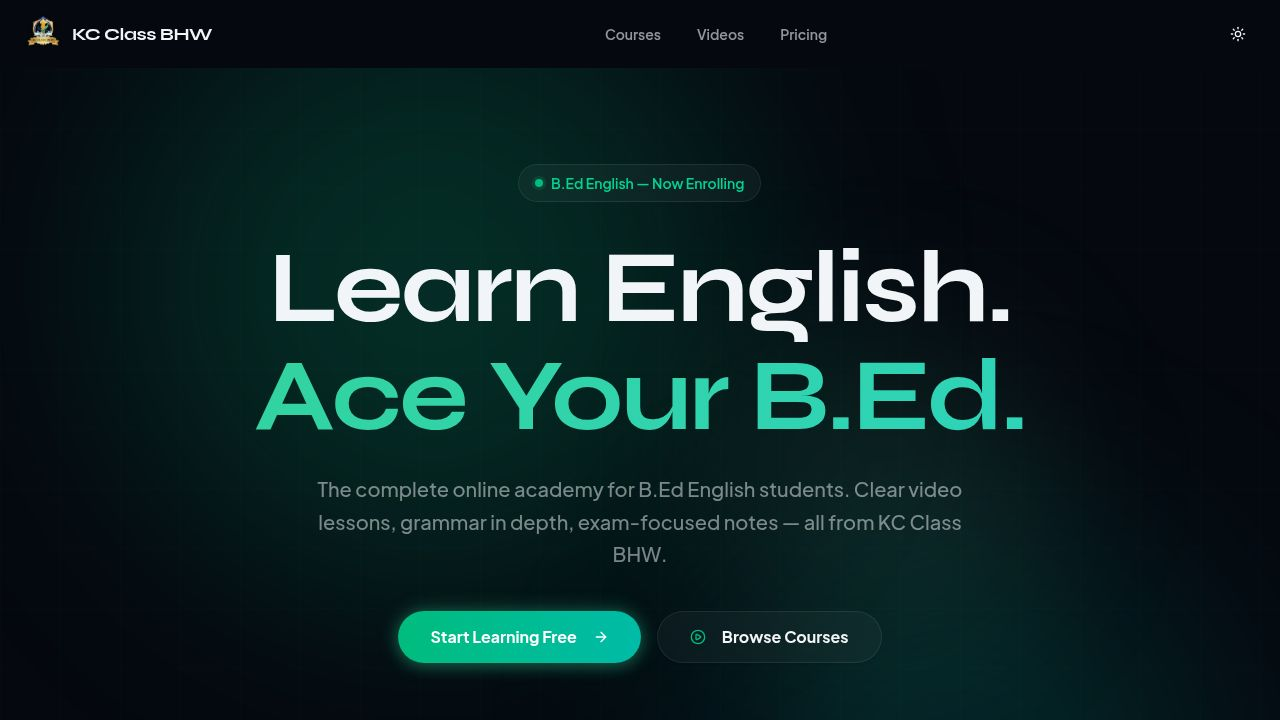
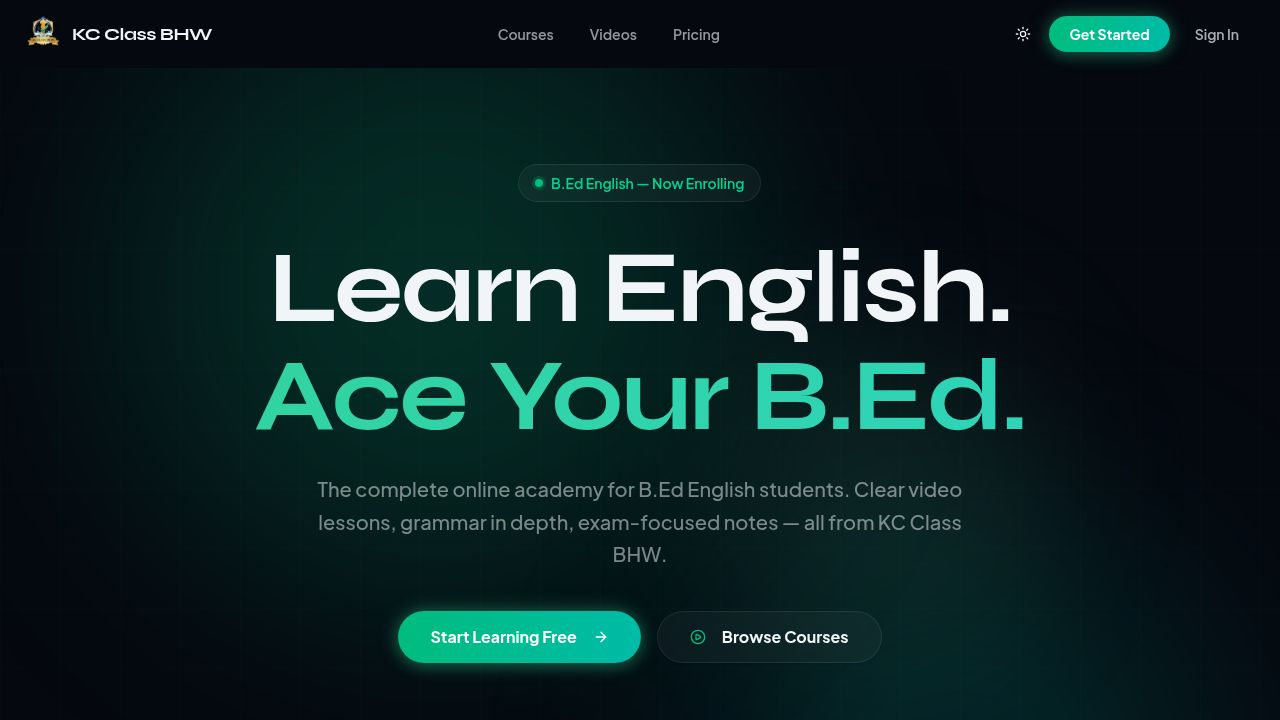
Update app fixes and improvements

Changed region(s): [[0.7812, 0.0, 0.9688, 0.0917], [0.4688, 0.0306, 0.6562, 0.0611], [0.375, 0.0306, 0.4375, 0.0611]]

diff --git a/artifacts/api-server/src/app.ts b/artifacts/api-server/src/app.ts
@@ -131,8 +131,7 @@ app.use("/api/subscriptions/verify", paymentLimiter);
 app.use("/api/admin", adminLimiter);
 
 // ── Root health check ─────────────────────────────────────────────────────────
-// IMPORTANT: registered BEFORE clerkMiddleware so it is always reachable even
-// when Clerk env vars are absent (e.g. dev mode without keys configured).
+// Registered BEFORE clerkMiddleware so it is always reachable.
 // Render's health check pings GET /healthz (configured in render.yaml).
 // The full deep health check (including DB) lives at /api/healthz in the router.
 app.get("/healthz", (_req, res) => {
@@ -140,27 +139,17 @@ app.get("/healthz", (_req, res) => {
 });
 
 // ── Clerk auth middleware ─────────────────────────────────────────────────────
-// Only applied when CLERK_SECRET_KEY is configured. Without it the middleware
-// calls assertValidSecretKey() on every request and crashes ALL routes —
-// including public ones — with "Missing Clerk Secret Key". By making it
-// conditional, unauthenticated routes work in dev without Clerk keys and
-// requireAuth / requireAdmin simply return 401 (correct behaviour).
-if (process.env.CLERK_SECRET_KEY) {
-  app.use(
-    clerkMiddleware((req) => ({
-      publishableKey: publishableKeyFromHost(
-        getClerkProxyHost(req) ?? "",
-        process.env.CLERK_PUBLISHABLE_KEY,
-      ),
-    })),
-  );
-} else {
-  if (process.env.NODE_ENV === "production") {
-    logger.error("CLERK_SECRET_KEY is not set in production — all authenticated routes will return 401. Set this variable immediately.");
-  } else {
-    logger.warn("CLERK_SECRET_KEY not set — Clerk auth middleware disabled (normal for dev without Clerk configured)");
-  }
-}
+// Resolves the publishable key from the incoming request host so the same
+// server can serve multiple Clerk custom domains. Falls back to
+// CLERK_PUBLISHABLE_KEY when the host doesn't map to a custom domain.
+app.use(
+  clerkMiddleware((req) => ({
+    publishableKey: publishableKeyFromHost(
+      getClerkProxyHost(req) ?? "",
+      process.env.CLERK_PUBLISHABLE_KEY,
+    ),
+  })),
+);
 
 app.use("/api", router);
 

diff --git a/artifacts/api-server/src/routes/admin.ts b/artifacts/api-server/src/routes/admin.ts
@@ -7,6 +7,7 @@ import {
   UpdateMeBody,
 } from "@workspace/api-zod";
 import { requireAuth, requireAdmin, upsertUserFromClerk } from "./auth";
+import { logger } from "../lib/logger";
 
 const router: IRouter = Router();
 
@@ -105,7 +106,7 @@ router.get("/admin/users/export", requireAdmin, async (req: any, res): Promise<v
       targetType: "users",
       metadata: { rowCount: users.length },
     })
-    .catch(() => {});
+    .catch((err) => logger.error({ err }, "Failed to write audit log: users.export"));
 
   res.setHeader("Content-Type", "text/csv");
   res.setHeader("Content-Disposition", `attachment; filename="users-${new Date().toISOString().split("T")[0]}.csv"`);
@@ -240,7 +241,7 @@ router.patch("/admin/users/:clerkId/role", requireAdmin, async (req, res): Promi
       targetId: params.data.clerkId,
       metadata: { newRole: parsed.data.role },
     })
-    .catch(() => {});
+    .catch((err) => logger.error({ err }, "Failed to write audit log: users.role_change"));
 
   const [sub] = await db.select().from(subscriptionsTable).where(eq(subscriptionsTable.userId, user.clerkId));
   res.json({

diff --git a/artifacts/learn/src/App.tsx b/artifacts/learn/src/App.tsx
@@ -34,14 +34,10 @@ const clerkPubKey = publishableKeyFromHost(
   import.meta.env.VITE_CLERK_PUBLISHABLE_KEY,
 );
 
-// Only use the Clerk proxy URL in a production build (import.meta.env.PROD).
-// In Vite's dev server (import.meta.env.PROD = false), the proxy URL points to
-// the Replit dev domain which does NOT support the `clerk.` subdomain that Clerk
-// prepends to construct the script URL — causing Clerk JS to fail to load entirely.
-// In production, Vite bakes in the correct production proxy URL at build time.
-const clerkProxyUrl: string | undefined = import.meta.env.PROD
-  ? (import.meta.env.VITE_CLERK_PROXY_URL as string | undefined)
-  : undefined;
+// REQUIRED — copy verbatim. Empty in dev (Clerk hits dev FAPI directly), auto-set
+// in prod. Do NOT gate on import.meta.env.PROD / NODE_ENV — the empty dev value
+// is intentional, and any branching breaks the prod proxy.
+const clerkProxyUrl = import.meta.env.VITE_CLERK_PROXY_URL;
 const basePath = import.meta.env.BASE_URL.replace(/\/$/, "");
 
 function stripBase(path: string): string {

diff --git a/artifacts/api-server/src/routes/videos.ts b/artifacts/api-server/src/routes/videos.ts
@@ -51,9 +51,17 @@ function parseRssFeed(xml: string): ParsedVideo[] {
     const views = parseInt(extractAttr(block, "media:statistics", "views") || "0", 10);
     const likes = parseInt(extractAttr(block, "media:starRating", "count") || "0", 10);
 
-    // Decode XML entities
+    // Decode XML entities — named + decimal numeric character references.
     const decode = (s: string) =>
-      s.replace(/&amp;/g, "&").replace(/&lt;/g, "<").replace(/&gt;/g, ">").replace(/&quot;/g, '"').replace(/&#39;/g, "'");
+      s
+        .replace(/&amp;/g, "&")
+        .replace(/&lt;/g, "<")
+        .replace(/&gt;/g, ">")
+        .replace(/&quot;/g, '"')
+        .replace(/&apos;/g, "'")
+        .replace(/&#39;/g, "'")
+        .replace(/&#(\d+);/g, (_, n) => String.fromCodePoint(parseInt(n, 10)))
+        .replace(/&#x([0-9a-fA-F]+);/g, (_, h) => String.fromCodePoint(parseInt(h, 16)));
 
     return {
       id: videoId,

diff --git a/artifacts/api-server/src/routes/subscriptions.ts b/artifacts/api-server/src/routes/subscriptions.ts
@@ -10,6 +10,8 @@ const router: IRouter = Router();
 
 const IS_PROD = process.env.ESEWA_ENV === "production";
 const ESEWA_PRODUCT_CODE = process.env.ESEWA_PRODUCT_CODE || (IS_PROD ? "" : "EPAYTEST");
+// "8gBm/:&EnhH.1/q" is eSewa's officially published sandbox secret key — not a real secret.
+// See: https://developer.esewa.com.np/ → Sandbox Credentials
 const ESEWA_SECRET_KEY = process.env.ESEWA_SECRET_KEY || (IS_PROD ? "" : "8gBm/:&EnhH.1/q");
 const ESEWA_PAYMENT_URL = IS_PROD
   ? "https://epay.esewa.com.np/api/epay/main/v2/form"

diff --git a/.agents/memory/clerk-dev-runtime.md b/.agents/memory/clerk-dev-runtime.md
@@ -1,7 +1,15 @@
 ---
 name: Clerk dev runtime fixes
-description: Two runtime crash patterns when CLERK_SECRET_KEY is absent in dev; both must be fixed together.
+description: Root cause + fix for Clerk JS loading failure and clerkMiddleware crashes in Replit dev. Clerk is now provisioned.
 ---
+
+## Status (as of June 19 2026)
+Clerk is fully provisioned via `setupClerkWhitelabelAuth()`.
+`CLERK_SECRET_KEY`, `CLERK_PUBLISHABLE_KEY`, `VITE_CLERK_PUBLISHABLE_KEY` are all set.
+`VITE_CLERK_PROXY_URL` is intentionally NOT set in dev (correct).
+
+## Red Herring: "Clerk loaded with development keys" warning
+This console warning is EXPECTED in dev. Do NOT treat it as a bug or try to fix it.
 
 ## Problem 1 — clerkMiddleware crash (API server)
 `clerkMiddleware()` from `@clerk/express` throws synchronously on startup if `CLERK_SECRET_KEY` is absent.
